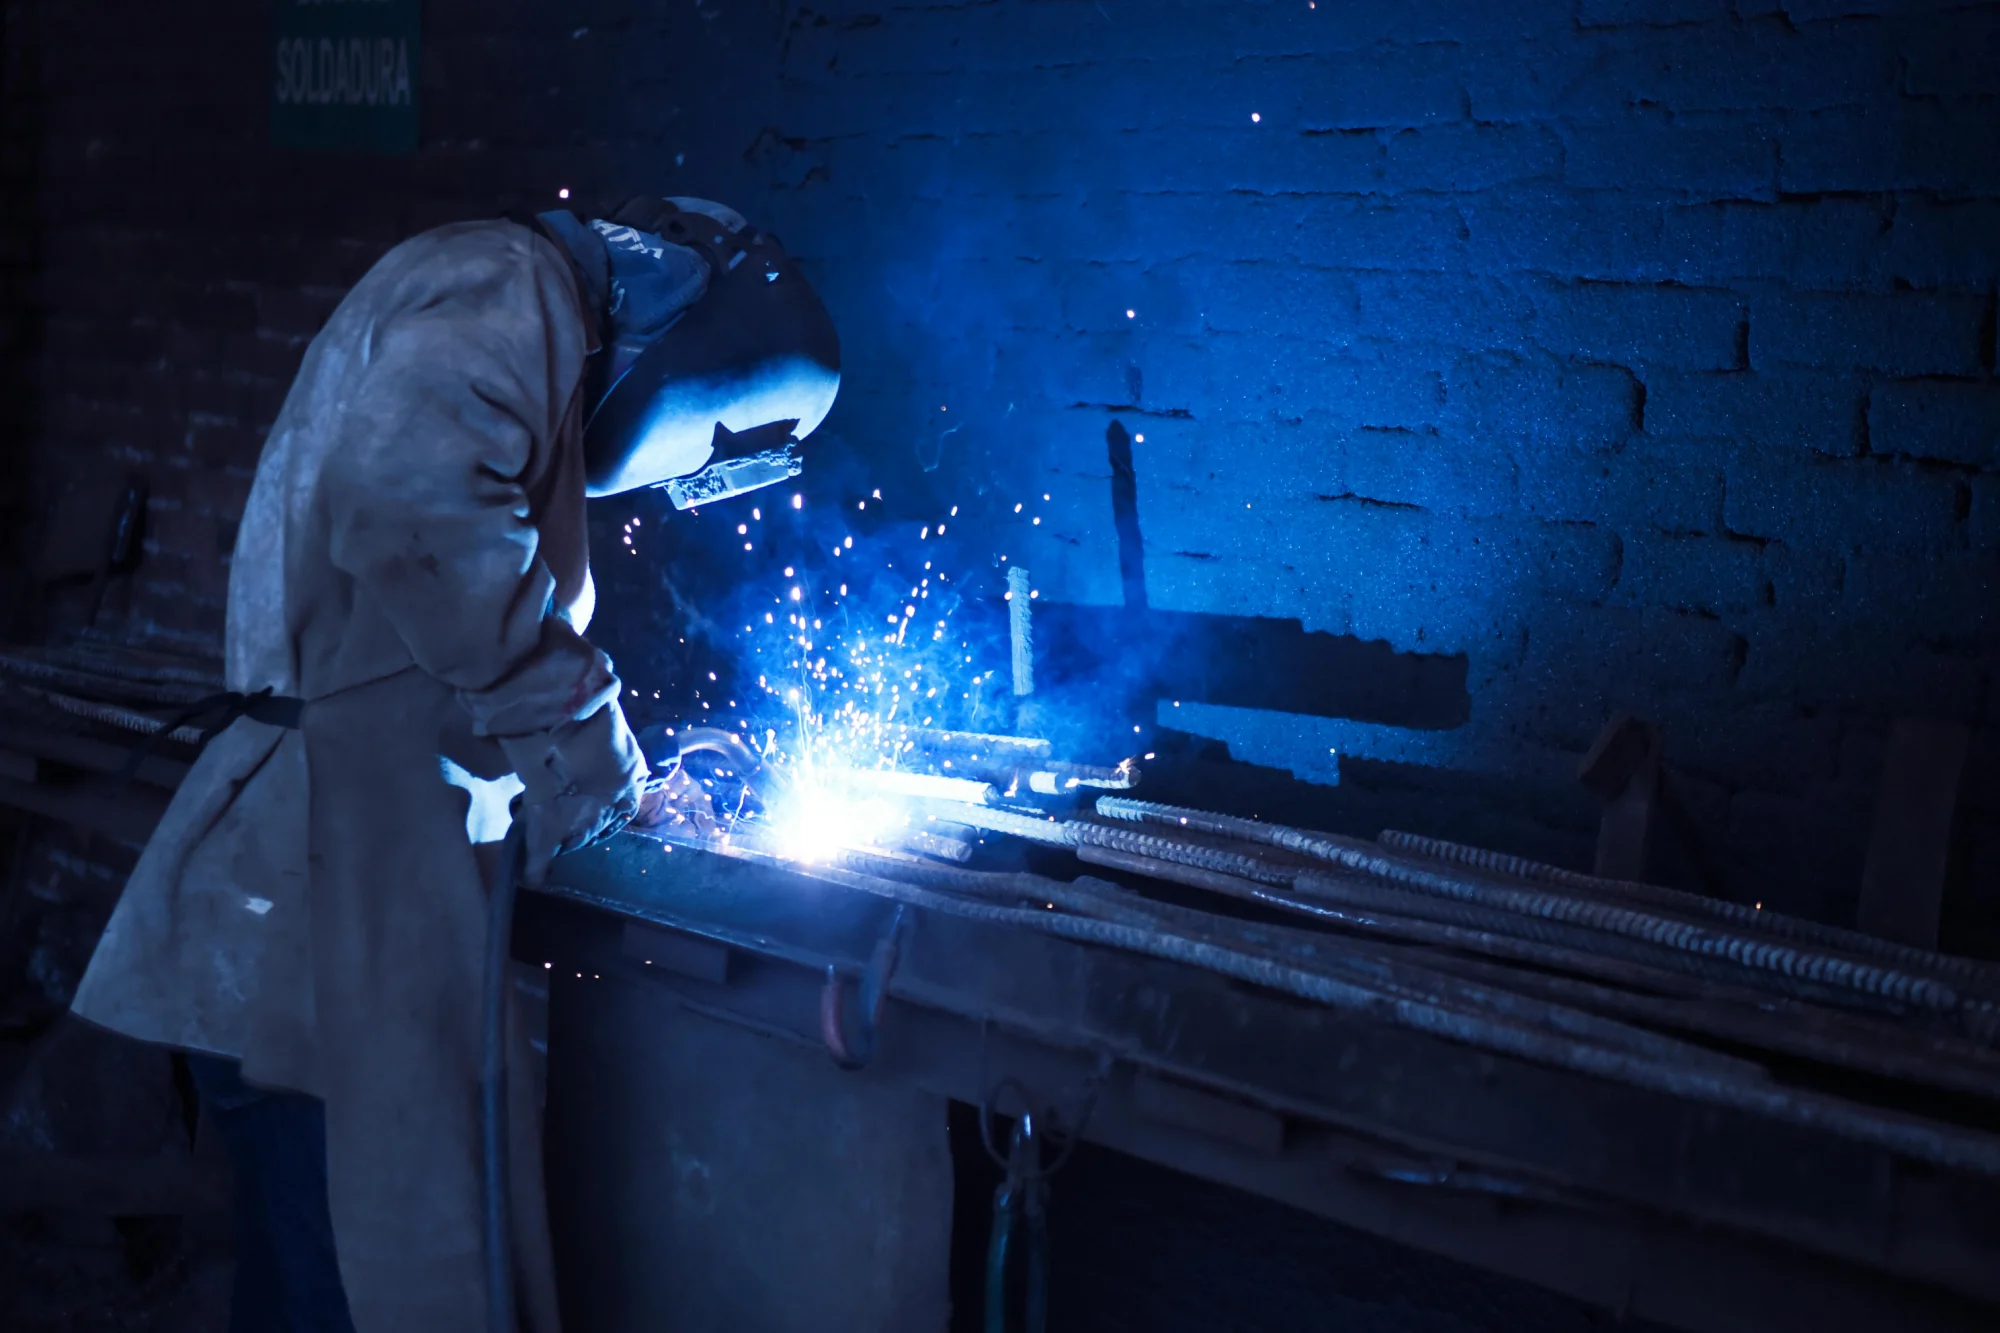
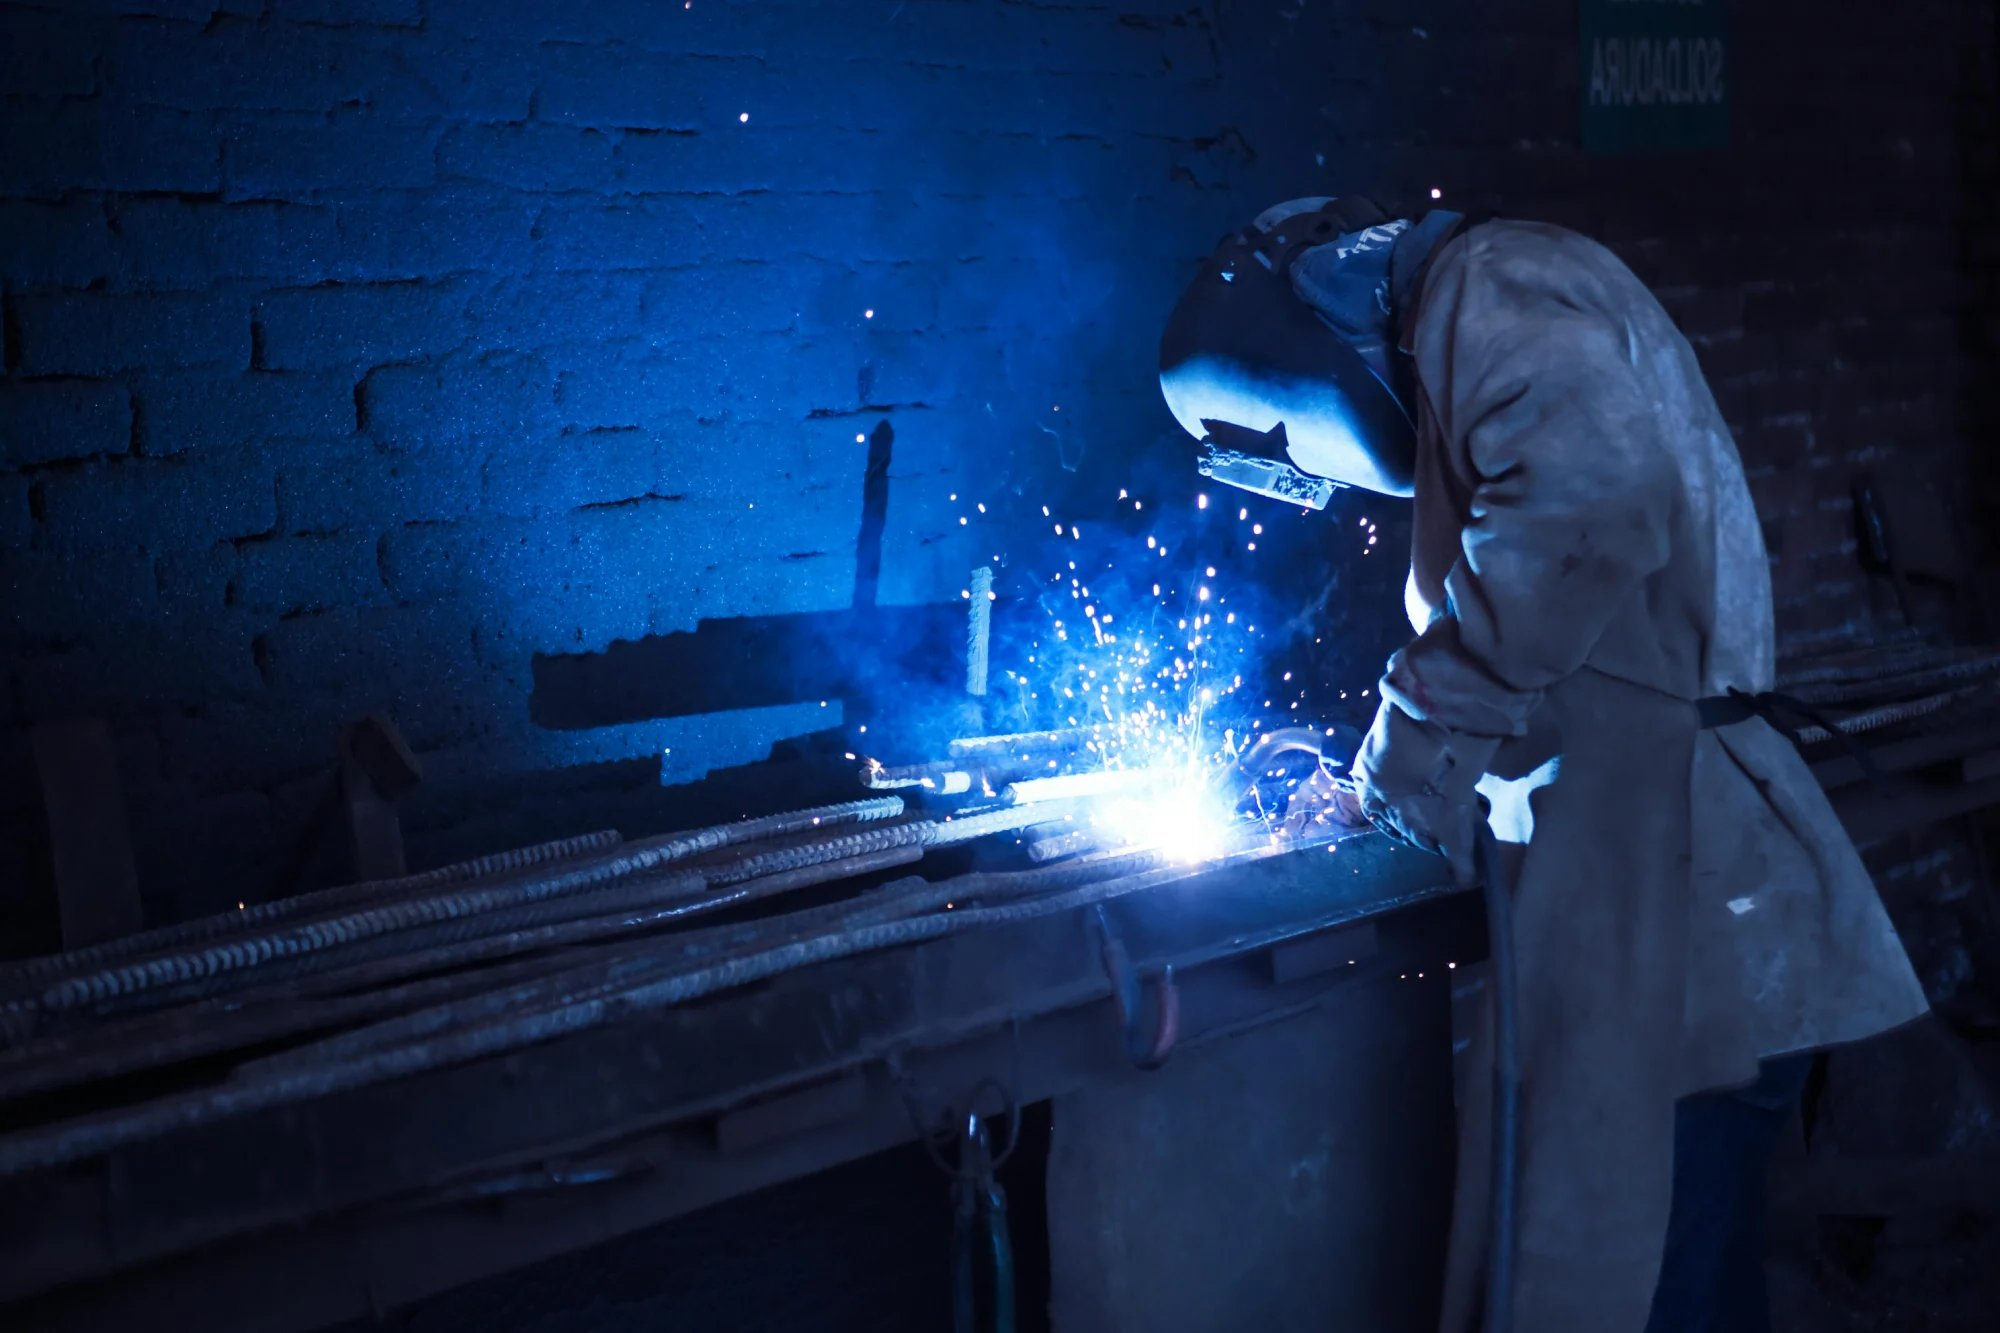
fix copyright

diff --git a/index.html b/index.html
@@ -44,10 +44,10 @@
                 <div class="bg-layer" id="bg2"></div>
                 <div class="common-padding" id="div-statement-common-padding">
                     <div id="div-statement-h1" class="moving-text">
-                        <h1>Automatización de portones</h1>
+                        <h1>Calidad, Resistencia y Precisión en Cada Proyecto</h1>
                     </div>
                     <p class="moving-text">
-                        Ofrecemos soluciones simples, confiables y seguras.
+                        Expertos en diseño, fabricación e instalación de estructuras metálicas.
                     </p>
                     <div class="div-double-button-container fade-in-element">
                         <a href="#section-contacto" class="call-to-action">
@@ -94,9 +94,9 @@
                                 </svg>
                             </div>
                             <div class="text-container">
-                                <h3>Instalaciones</h3>
+                                <h3>Diseño</h3>
                                 <p>
-                                    Instalación profesional de portones de alta calidad garantizando comodidad y seguridad. 
+                                    Proyectos personalizados con planos precisos para portones, barandales y estructuras únicas.
                                 </p>
                             </div>
                         </li>
@@ -113,22 +113,33 @@
                                 </svg>
                             </div>
                             <div class="text-container">
-                                <h3>Reformas</h3>
+                                <h3>Fabricación</h3>
                                 <p>
-                                    Modernizamos tu portón con automatización, asegurando un acceso seguro.
+                                    Trabajamos con materiales premium y técnicas expertas para piezas resistentes y duraderas.
                                 </p>
                             </div>
                         </li>
                         <li class="li-servicio moving-servicio">
                             <div class="svg-container">
-                                <svg fill="#000000" width="800px" height="800px" viewBox="0 0 35 35" data-name="Layer 2" id="a1601ee4-9861-40f7-9d22-1715f3ba9d62" xmlns="http://www.w3.org/2000/svg">
-                                    <path d="M28.272,27.7H6.729A4.2,4.2,0,0,1,2.537,23.5V5.782A4.2,4.2,0,0,1,6.729,1.59H28.272a4.2,4.2,0,0,1,4.191,4.192V23.5A4.2,4.2,0,0,1,28.272,27.7ZM6.729,4.09A1.694,1.694,0,0,0,5.037,5.782V23.5A1.694,1.694,0,0,0,6.729,25.2H28.272A1.694,1.694,0,0,0,29.963,23.5V5.782A1.694,1.694,0,0,0,28.272,4.09Z"/><path d="M33.5,33.41H1.5a1.25,1.25,0,1,1,0-2.5h32a1.25,1.25,0,1,1,0,2.5Z"/>
+                                <svg
+                                    width="800px"
+                                    height="800px"
+                                    viewBox="0 0 24 24"
+                                    fill="#000000"
+                                    xmlns="http://www.w3.org/2000/svg"
+                                    >
+                                    <path
+                                        d="M11 5C11 4.44772 11.4477 4 12 4C12.5523 4 13 4.44772 13 5V12.1578L16.2428 8.91501L17.657 10.3292L12.0001 15.9861L6.34326 10.3292L7.75748 8.91501L11 12.1575V5Z"
+                                    />
+                                    <path
+                                        d="M4 14H6V18H18V14H20V18C20 19.1046 19.1046 20 18 20H6C4.89543 20 4 19.1046 4 18V14Z"
+                                    />
                                 </svg>
                             </div>
                             <div class="text-container">
-                                <h3>Tecnología</h3>
+                                <h3>Instalaciones</h3>
                                 <p>
-                                    Trabajamos con motores y materiales de alta calidad para lograr una mayor durabilidad
+                                    Montaje seguro y eficiente, garantizando funcionalidad y acabados perfectos en cada obra.
                                 </p>
                             </div>
                         </li>
@@ -146,10 +157,10 @@
                             Comprometidos en ofrecer la máxima calidad
                         </h2>
                         <p>
-                            En <strong>PORTONES</strong> nos dedicamos a la instalación de portones eléctricos con un objetivo claro: hacer tu vida más segura y cómoda.
+                            Somos un taller especializado con años de experiencia creando estructuras metálicas resistentes y funcionales. Combinamos <strong>calidad, diseño y precisión</strong> en cada proyecto.
                         </p>
                         <p>
-                            Con años de experiencia, te garantizamos soluciones eficientes, duraderas y pensadas para simplificar tu día a día.
+                            Trabajamos con materiales premium y técnicas actualizadas. Artesanos del metal que cuidamos cada detalle desde el diseño hasta la instalación final.
                         </p>
                         <div class="button-container">
                             <a href="#section-galeria" class="call-to-action">
@@ -198,7 +209,7 @@
                         <span class="small-title">Nuestros trabajos</span>
                         <h2>Galería</h2>
                         <p>
-                            Cada instalación refleja nuestro compromiso con la calidad, seguridad y el confort.
+                            Cada proyecto cuenta nuestra dedicación y precisión artesanal.
                         </p>
                     </div>
                     <div id="div-galeria" class="fade-in-element">
@@ -281,7 +292,7 @@
                                         <h3>Escribinos a whatsapp</h3>
                                     </div>
                                     <p>
-                                        +54 11 xxxx-xxxx
+                                        +54 11 2458-578913
                                     </p>
                                 </li>
                                 <li>
@@ -303,12 +314,12 @@
                                         <h3>Escribinos por mail</h3>
                                     </div>
                                     <p>
-                                        mailcontacto@gmail.com
+                                        herreriadelsur.contacto@gmail.com
                                     </p>
                                 </li>
                             </ul>
                         </div>
-                        <iframe src="https://www.google.com/maps/embed?pb=!1m18!1m12!1m3!1d3284.0182802025734!2d-58.384182490740024!3d-34.603699257380846!2m3!1f0!2f0!3f0!3m2!1i1024!2i768!4f13.1!3m3!1m2!1s0x4aa9f0a6da5edb%3A0x11bead4e234e558b!2sObelisco!5e0!3m2!1ses!2sar!4v1745331786086!5m2!1ses!2sar" width="600" height="450" style="border:0;" allowfullscreen="" loading="lazy" referrerpolicy="no-referrer-when-downgrade"></iframe>
+                        <iframe src="https://www.google.com/maps/embed?pb=!1m14!1m12!1m3!1d2002.1402994280893!2d-58.361950888362216!3d-34.776003365768716!2m3!1f0!2f0!3f0!3m2!1i1024!2i768!4f13.1!5e0!3m2!1ses-419!2sar!4v1753965489367!5m2!1ses-419!2sar" width="600" height="450" style="border:0;" allowfullscreen="" loading="lazy" referrerpolicy="no-referrer-when-downgrade"></iframe>
                     </div>
                 </div>
             </section>
@@ -320,8 +331,8 @@
                     <div id="footer-div-top-contacto" class="footer-section">
                         <h4>Contacto</h4>
                         <ul>
-                            <li>Solicitá tu presupuesto al xx xxxx-xxxx</li>
-                            <li>mailcontacto@gmail.com</li>
+                            <li>Solicitá tu presupuesto al 11 2458-578913</li>
+                            <li>herreriadelsur.contacto@gmail.com</li>
                             <li>Calle 123 Buenos Aires, Argentina</li>
                         </ul>
                     </div>

diff --git a/style.css b/style.css
@@ -303,12 +303,11 @@ section {
     position: relative;
     color: var(--whiteColor);
     padding-top: 6rem;
-    padding-bottom: 24rem;
+    padding-bottom: 2rem;
     background-image: none;
     background-size: cover;
     background-position: center;
     background-repeat: no-repeat;
-    height: 500px;
     width: 100%;
     text-align: center;
     z-index: 20;
@@ -335,15 +334,15 @@ section {
 
 #section-statement h1 {
     margin-bottom: 1rem;
-    font-size: 2rem;
+    font-size: 2.5rem;
     word-wrap: break-word;
 }
 
 #section-statement p {
     max-width: 20ch;
-    font-size: 1.5rem;
+    font-size: 1.25rem;
     font-weight: 600;
-    line-height: 2.25rem;
+    line-height: 1.5rem;
 }
 
 #section-statement h1,
@@ -864,14 +863,25 @@ footer hr {
     }
 
     #section-statement .common-padding {
+        display: flex;
+        flex-direction: column;
         padding-top: 8rem;
         height: 650px;
         background-size: 50%;
+        text-align: left;
+    }
+
+    #div-statement-h1 {
+        margin-left: 0;
     }
 
     #section-statement h1 {
-        font-size: 4rem;
-        max-width: 18ch;
+        font-size: 3rem;
+        max-width: 24ch;
+    }
+
+    #section-statement p, #section-statement .div-double-button-container {
+        margin-left: 0;
     }
 
     #section-servicios .common-padding {
@@ -883,7 +893,7 @@ footer hr {
     }
 
     #section-statement p {
-        max-width: 30ch;
+        max-width: 30%;
     }
 
     #section-servicios ul {

diff --git a/Scripts/infiniteGallery.js b/Scripts/infiniteGallery.js
@@ -1,4 +1,4 @@
-const mediaQuery = window.matchMedia('(min-width: 996px)');
+const mediaQuery = window.matchMedia('(min-width: 0px)');
 
 function initializeGallery() {
     const gallery = document.getElementById('ul-self-scroll');
